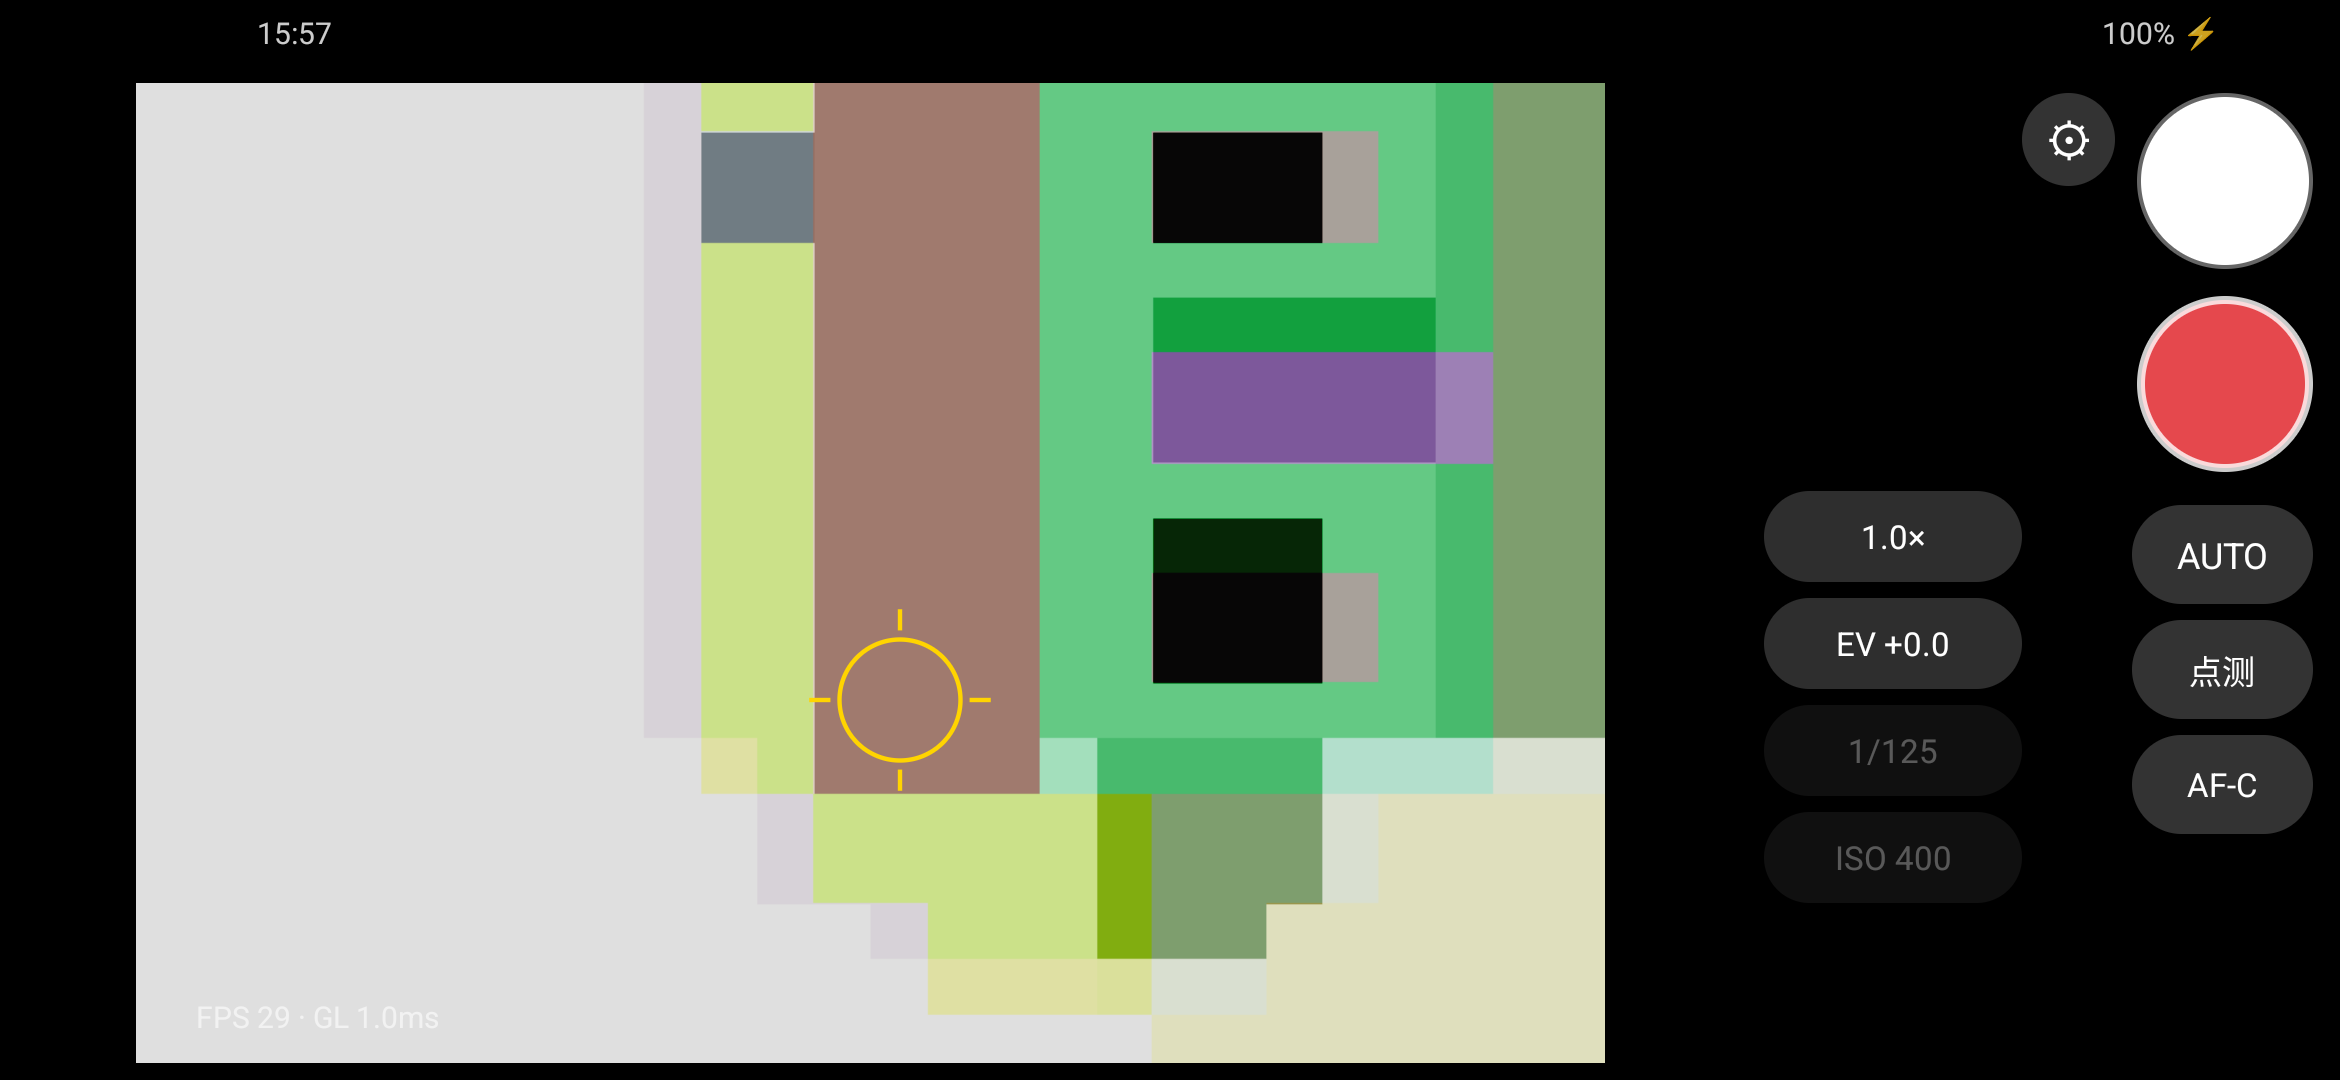
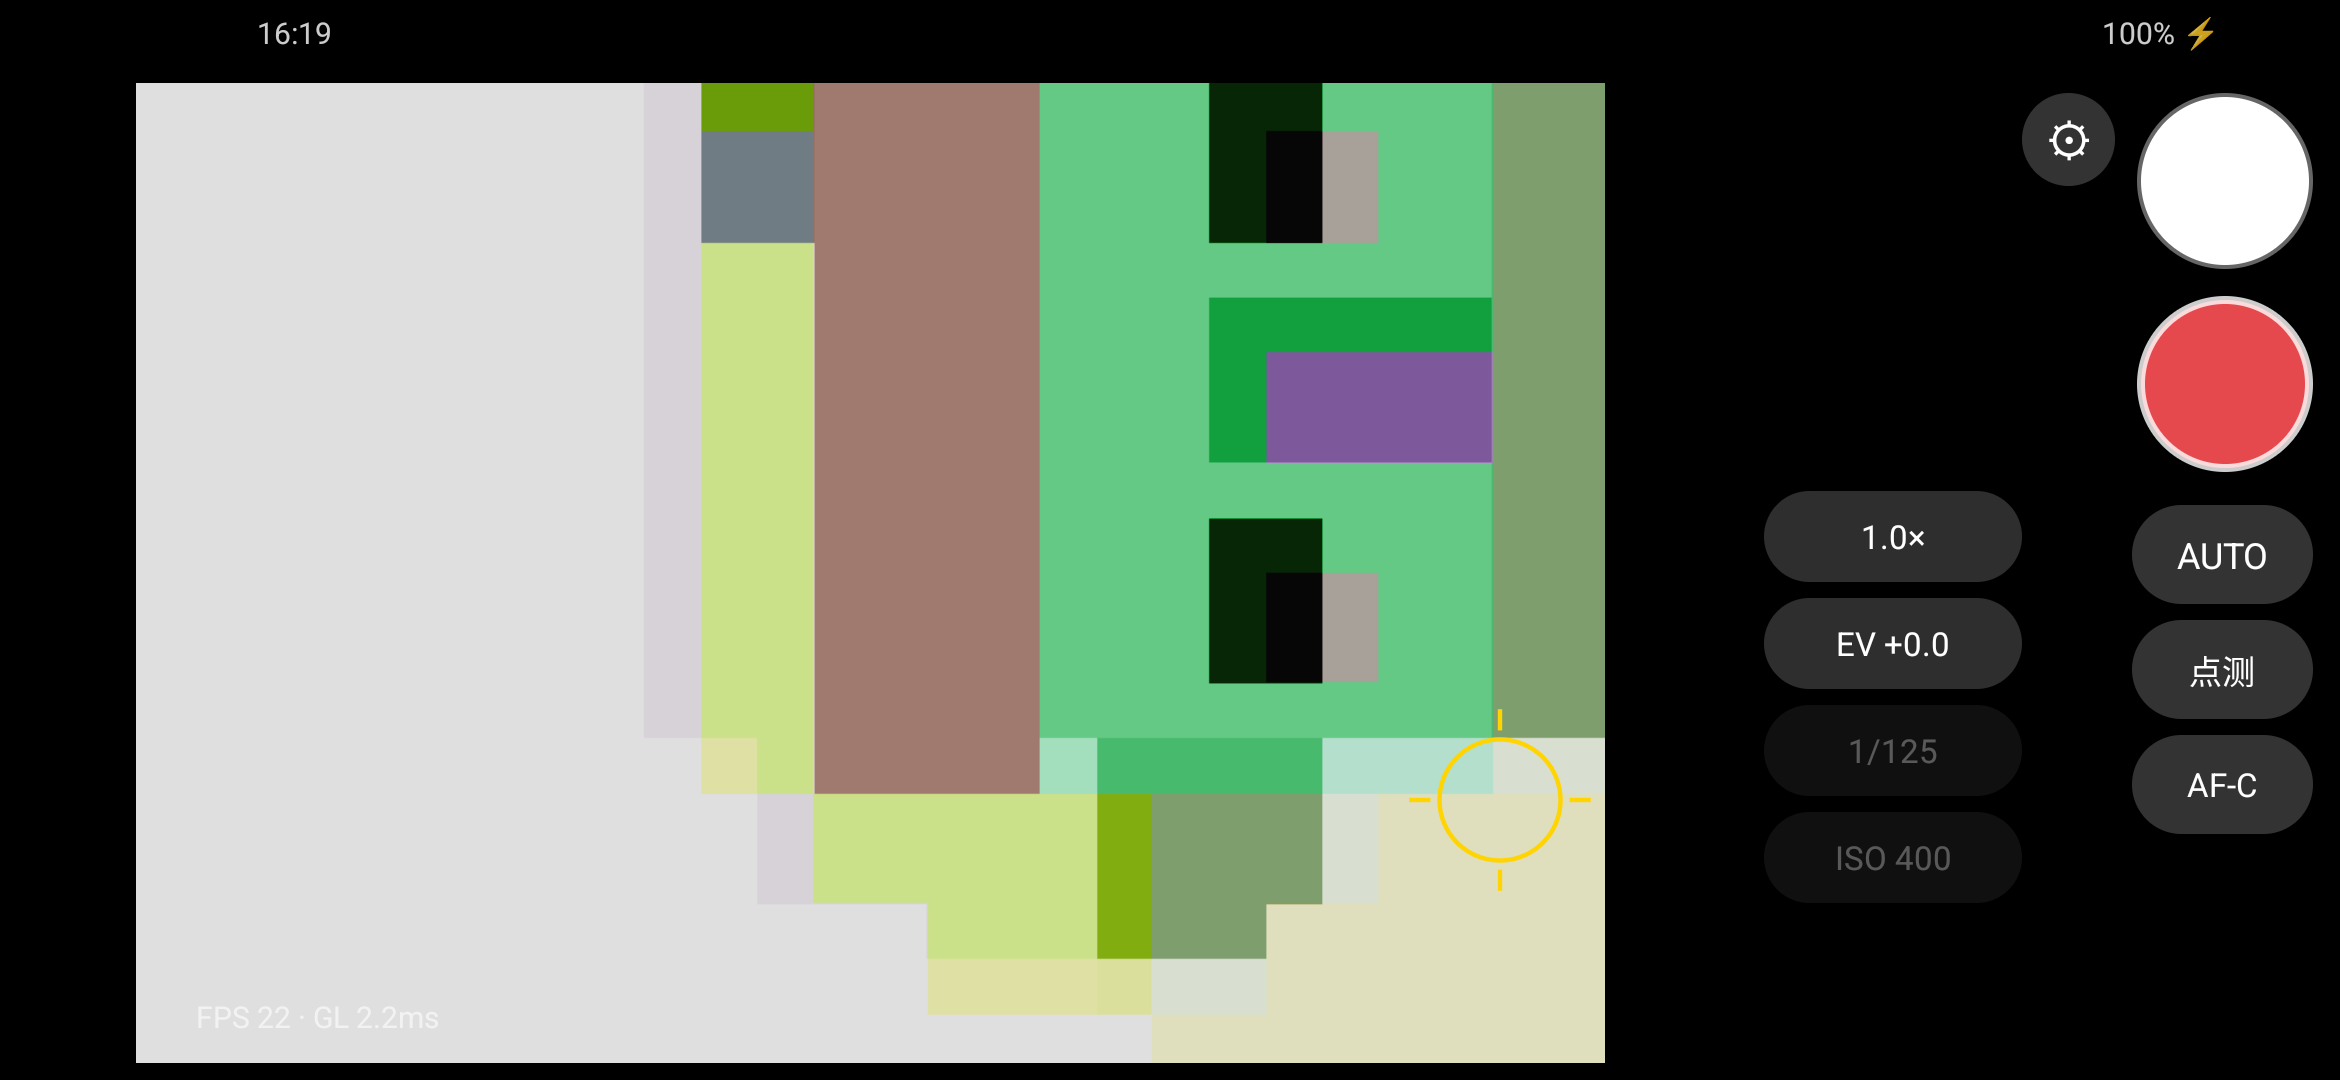
Lume: 点测每次点击立即重测并调参；预拍保持 300ms；修正测光采样坐标空间

diff --git a/lume/app/src/main/java/com/magirri/lume/MainActivity.kt b/lume/app/src/main/java/com/magirri/lume/MainActivity.kt
@@ -374,11 +374,15 @@ class MainActivity : Activity() {
                     val uv = previewPointToUv(e.x, e.y)
                     if (uv != null && camera.focusMode != CameraEngine.Focus.MF) {
                         camera.focusAt(uv.first, uv.second)
-            // 点测光跟着手指：测光圈画在点击处
-            if (meterMode == 0) {
-                this@MainActivity.overlay.setMeterSpot(true, e.x, e.y)
-                preview.setMeterPoint(uv.first, uv.second)   // 软件测光也跟到这个点
-            }
+                        // 点测光跟着手指：测光圈画在点击处
+                        if (meterMode == 0) {
+                            this@MainActivity.overlay.setMeterSpot(true, e.x, e.y)
+                            // 注意：测光采样是在「已旋转的取景画面」上做的，所以传视图归一化坐标，
+                        // 而不是带旋转/裁切的纹理 UV
+                        preview.setMeterPoint(e.x / v.width, e.y / v.height)
+                        }
+                        // 每次点击都重新测一次，并立刻调整参数
+                        remeterAt()
                         showFocusRing(e.x, e.y)
                         v.performClick()
                     } else if (uv == null) {
@@ -1530,6 +1534,68 @@ class MainActivity : Activity() {
      * 每 600ms 取一次取景器中心亮度，只在明显偏离目标时才动，每步最多 1/3 档：
      * 之前 300ms 无条件重算，ISO 在相邻档之间来回跳，画面就是一顿一顿的。
      */
+    /**
+     * S 档：按当前取景亮度调 ISO。
+     * @param instant 点击测光时用：直接一次到位（不等小步收敛）
+     * @return 是否离目标还很远（决定下一轮间隔）
+     */
+    private fun correctSExposure(luma: Float, instant: Boolean): Boolean {
+        val c = camera.controls
+        if (luma <= 0.02f || !c.hasManual) return false
+        val ev = evFromValue(evDial.value)
+        val target = (0.45f * Math.pow(2.0, ev.toDouble())).toFloat().coerceIn(0.10f, 0.90f)
+        val ratio = target / luma
+        val far = ratio < 0.62f || ratio > 1.6f
+        if (far || ratio < 0.88f || ratio > 1.14f) {
+            val gain = Math.pow(ratio.toDouble(), if (instant) 1.0 else if (far) 0.9 else 0.45)
+                .toFloat()
+                .coerceIn(if (instant) 0.05f else if (far) 0.25f else 0.8f,
+                    if (instant) 20f else if (far) 4f else 1.25f)
+            val cur = camera.sModeIso
+            val next = (cur * gain).toInt().coerceIn(c.isoMin, c.isoMax)
+            if (next != cur) {
+                camera.setSModeIso(next)
+                updateWheelButtons()
+                Log.i(TAG, "点测光调 ISO $cur -> $next（亮度 $luma，目标 $target）")
+            }
+        }
+        return far
+    }
+
+    /**
+     * 点一下取景器：重新测光 + 立刻把参数调整到位（不等轮询）。
+     * AUTO 档靠 AE 预拍重新收敛；S 档直接按新测光点的亮度算 ISO；M 档只更新曝光指示。
+     */
+    private fun remeterAt() {
+        ui.removeCallbacks(spotMeterTask)
+        preview.requestLuma()
+        // 等下一帧渲染完再读亮度（requestLuma 只是打标记）
+        ui.postDelayed(spotMeterTask, 90)
+    }
+
+    /** 点测光的即时调整任务（inner class 才能 post 自己再补一枪） */
+    private inner class SpotMeterTask : Runnable {
+        override fun run() {
+            when (camera.mode) {
+                CameraEngine.Mode.S -> {
+                    correctSExposure(preview.lastLuma, instant = true)
+                    preview.requestLuma()
+                    ui.postDelayed(this, 120)   // 再补一枪，抵消一次读数的抖动
+                }
+                CameraEngine.Mode.M -> {
+                    val luma = preview.lastLuma
+                    if (luma > 0.02f) {
+                        val dev = (Math.log(luma / 0.45) / Math.log(2.0)).toFloat().coerceIn(-2f, 2f)
+                        evDial.value = ((dev + 2f) / 4f).coerceIn(0f, 1f)
+                    }
+                }
+                else -> Unit   // AUTO 交给相机 AE（已发预拍）
+            }
+        }
+    }
+
+    private val spotMeterTask = SpotMeterTask()
+
     private val exposureLoop = object : Runnable {
         override fun run() {
             // 用户正在拨轮子时先让开：一边拖一边改 ISO 会互相打架，画面看着就是卡
@@ -1541,29 +1607,10 @@ class MainActivity : Activity() {
             when (camera.mode) {
                 CameraEngine.Mode.S -> {
                     preview.requestLuma()
-                    val luma = preview.lastLuma
-                    if (luma > 0.02f && c.hasManual) {
-                        val ev = evFromValue(evDial.value)
-                        val target = (0.45f * Math.pow(2.0, ev.toDouble())).toFloat()
-                            .coerceIn(0.10f, 0.90f)
-                        val ratio = target / luma
-                        val far = ratio < 0.62f || ratio > 1.6f
-                        if (far || ratio < 0.88f || ratio > 1.14f) {
-                            // 差得多就大步追（切档后常见），差得少才小步微调
-                            val gain = Math.pow(ratio.toDouble(), if (far) 0.9 else 0.45)
-                                .toFloat()
-                                .coerceIn(if (far) 0.25f else 0.8f, if (far) 4f else 1.25f)
-                            val cur = camera.sModeIso
-                            val next = (cur * gain).toInt().coerceIn(c.isoMin, c.isoMax)
-                            if (next != cur) {
-                                camera.setSModeIso(next)
-                                updateWheelButtons()
-                            }
-                        }
-                        // 离目标远的时候 300ms 一次，收敛后回到 800ms
-                        ui.postDelayed(this, if (far) 300 else 800)
-                        return
-                    }
+                    val far = correctSExposure(preview.lastLuma, false)
+                    // 离目标远的时候 300ms 一次，收敛后回到 800ms
+                    ui.postDelayed(this, if (far) 300 else 800)
+                    return
                 }
 
                 CameraEngine.Mode.M -> {

diff --git a/lume/app/src/main/java/com/magirri/lume/CameraEngine.kt b/lume/app/src/main/java/com/magirri/lume/CameraEngine.kt
@@ -201,12 +201,17 @@ class CameraEngine(private val context: Context) {
             }
             // AE 预拍收敛完成就复位，别一直挂着
             if (aePrecapture) {
+                val now = android.os.SystemClock.uptimeMillis()
+                val age = now - aePrecaptureAt
+                // 关键：刚置位时，上一帧的 AE_STATE 往往还是 CONVERGED，
+                // 立刻清掉等于预拍没发生 —— 至少挂 300ms 再接受 CONVERGED。
                 val aeState = result.get(CaptureResult.CONTROL_AE_STATE)
-                if (aeState == CaptureResult.CONTROL_AE_STATE_CONVERGED ||
+                val converged = aeState == CaptureResult.CONTROL_AE_STATE_CONVERGED ||
                     aeState == CaptureResult.CONTROL_AE_STATE_LOCKED
-                ) {
+                if (converged && age >= 300L) {
                     aePrecapture = false
                     aePrecaptureAt = 0L
+                    Log.i(TAG, "AE 预拍完成，用时 ${age}ms")
                     reapply()
                 }
             }
@@ -484,6 +489,7 @@ class CameraEngine(private val context: Context) {
         // 只改 AE 区域 HAL 未必会重新收敛，要踢一次 PRECAPTURE 让它重新测光，
         // 否则表现就是"有时候有效有时候无效"
         aePrecapture = true
+        aePrecaptureAt = android.os.SystemClock.uptimeMillis()
         reapply(immediate = true)
     }
 
@@ -582,7 +588,10 @@ class CameraEngine(private val context: Context) {
         // 之前是「单次 capture 触发 + 立刻恢复重复请求」，那条重复请求经常把触发冲掉，
         // 表现就是点十次对三次。
         afTrigger = CaptureRequest.CONTROL_AF_TRIGGER_START
-        if (meteringMode == 0) aePrecapture = true   // 点测：换测光点后重新测
+        if (meteringMode == 0) {
+            aePrecapture = true                       // 点测：换测光点后重新测
+            aePrecaptureAt = android.os.SystemClock.uptimeMillis()
+        }
         reapply(immediate = true)
     }
 
@@ -607,6 +616,8 @@ class CameraEngine(private val context: Context) {
         when (mode) {
             Mode.AUTO -> {
                 builder.set(CaptureRequest.CONTROL_AE_MODE, CaptureRequest.CONTROL_AE_MODE_ON)
+                // 保险：确保 AE 没有被锁在旧结果上（某些 HAL 会保持上次收敛值）
+                builder.set(CaptureRequest.CONTROL_AE_LOCK, false)
                 builder.set(
                     CaptureRequest.CONTROL_AE_PRECAPTURE_TRIGGER,
                     if (aePrecapture) CaptureRequest.CONTROL_AE_PRECAPTURE_TRIGGER_START
@@ -697,7 +708,10 @@ class CameraEngine(private val context: Context) {
         }
         // 从手动档切回自动：发一次 AE 预拍，让它快速收敛（否则会从手动曝光的
         // 那个点慢慢爬，体感要等好几秒）
-        if (m == Mode.AUTO) aePrecapture = true
+        if (m == Mode.AUTO) {
+            aePrecapture = true
+            aePrecaptureAt = android.os.SystemClock.uptimeMillis()
+        }
         reapply(immediate = true)
     }
 

diff --git a/lume/app/src/main/java/com/magirri/lume/GlPreview.kt b/lume/app/src/main/java/com/magirri/lume/GlPreview.kt
@@ -532,7 +532,7 @@ class GlPreview(
         private set
     @Volatile var lastLuma = -1f
 
-    /** 点测光时软件采样的位置（纹理坐标 0..1），默认中心 */
+    /** 点测光采样位置：**视图归一化坐标**（0..1，左上原点），默认中心 */
     @Volatile private var meterU = 0.5f
     @Volatile private var meterV = 0.5f
 
